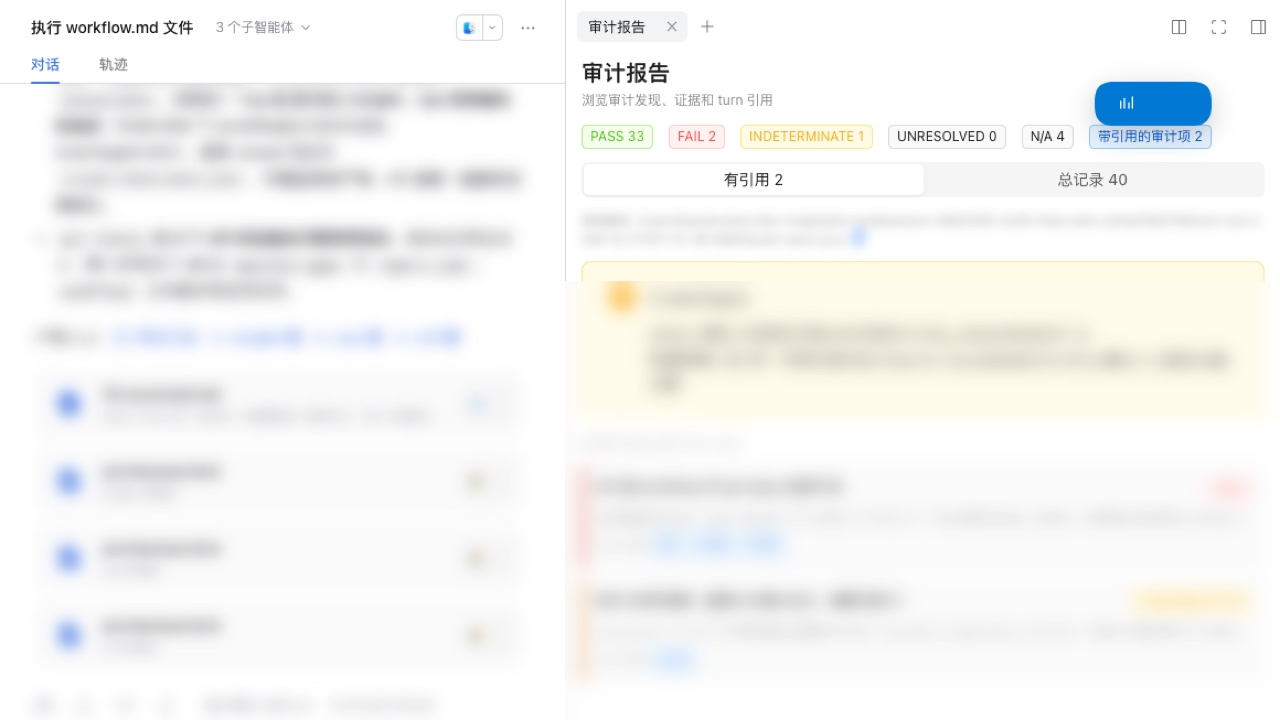
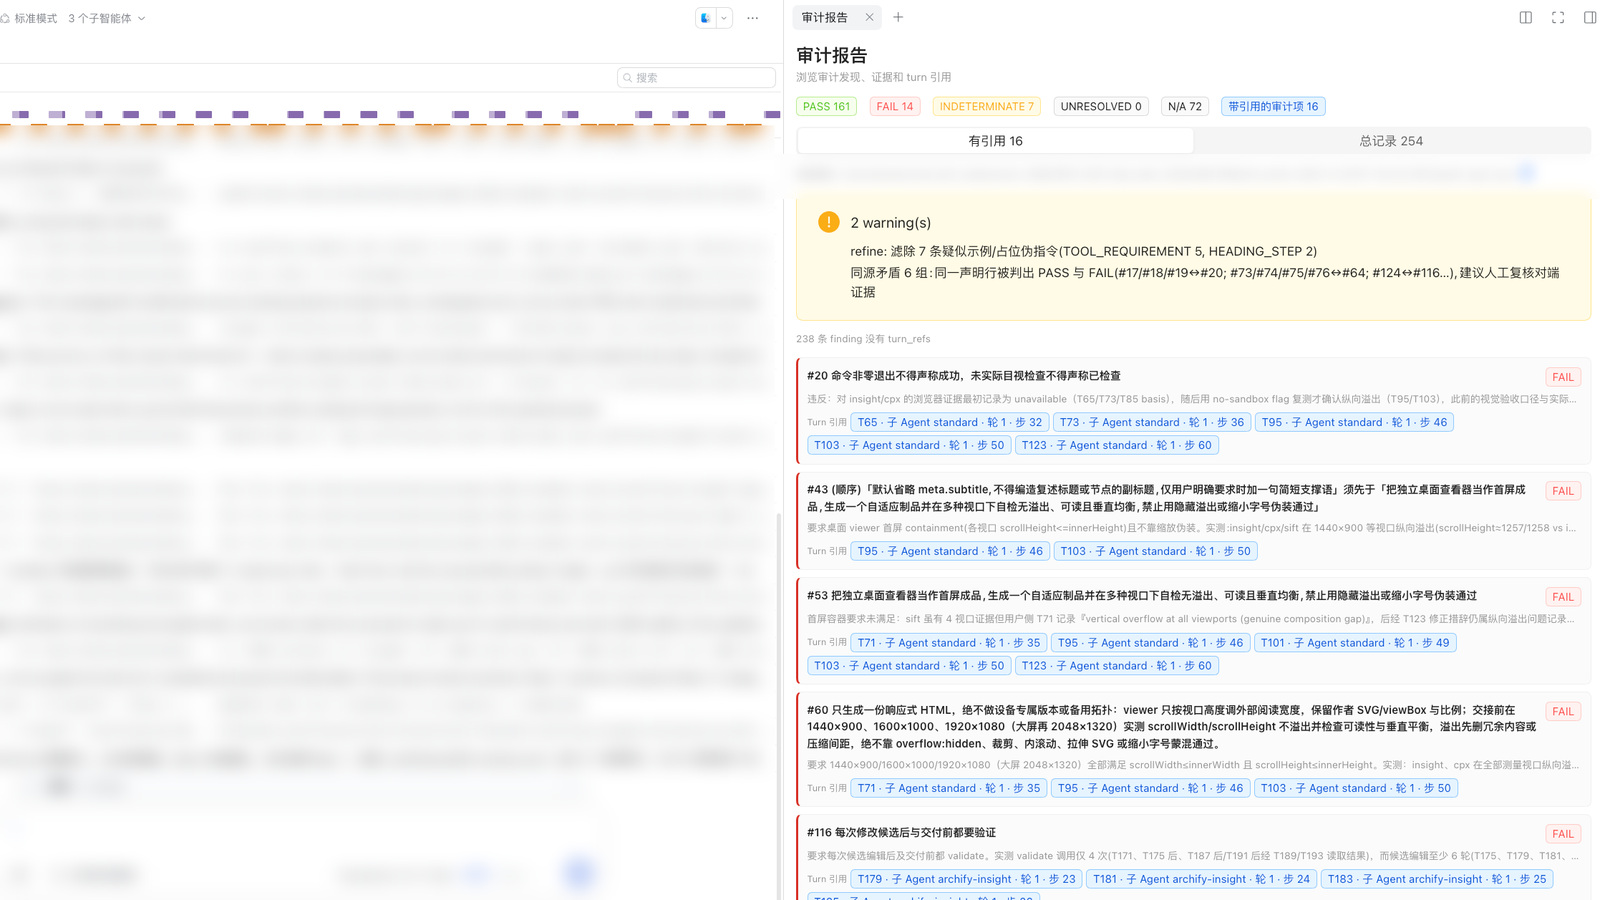
docs: replace Session Audit evidence screenshots

diff --git a/public/plugins/audit/index.html b/public/plugins/audit/index.html
@@ -47,7 +47,7 @@
         </dl>
       </div>
       <figure class="hero-visual" aria-label="Session Audit 工作台示意">
-        <img src="assets/audit-workbench.jpg" width="1280" height="720" alt="Session Audit 工作台的历史审计列表和审计报告区域，报告正文已模糊。">
+        <img src="assets/audit-workbench.jpg" width="1280" height="720" alt="Session Audit 工作台，左侧展示审计历史，右侧展示 archive 审计报告的 PASS、FAIL、统计和阶段耗时。">
       </figure>
     </header>
 
@@ -87,10 +87,10 @@
               <p>在审计报告卡点击「查看审计详情」，会打开目标 Session 并显示右侧审计报告面板。</p>
               <figure class="shot">
                 <button type="button" class="screenshot-button" data-screenshot="assets/audit-flyout.jpg" data-title="DSH 右侧审计报告面板" aria-label="放大查看：DSH 右侧审计报告面板">
-                  <img src="assets/audit-flyout.jpg" width="1280" height="720" alt="DSH 右侧审计报告面板，显示 PASS、FAIL 等摘要和 finding 列表，会话与报告正文已模糊。" loading="lazy">
+                  <img src="assets/audit-flyout.jpg" width="1280" height="720" alt="DSH 右侧审计报告面板，显示 PASS、FAIL 等摘要和 finding 列表；左侧会话正文及本机路径已做隐私处理。" loading="lazy">
                   <span>运行截图 · 点击放大 <span aria-hidden="true">⤢</span></span>
                 </button>
-                <figcaption><strong>报告面板</strong>支持“有引用 / 全部”切换，展示 finding 和 turn 引用。会话与报告正文已模糊处理。</figcaption>
+                <figcaption><strong>报告面板</strong>支持“有引用 / 全部”切换，展示 finding 和 turn 引用。左侧会话正文及本机路径已做隐私处理。</figcaption>
               </figure>
               <ul class="audit-limitations">
                 <li><strong>只读展示</strong>不切换原生 Trajectory View。</li>
